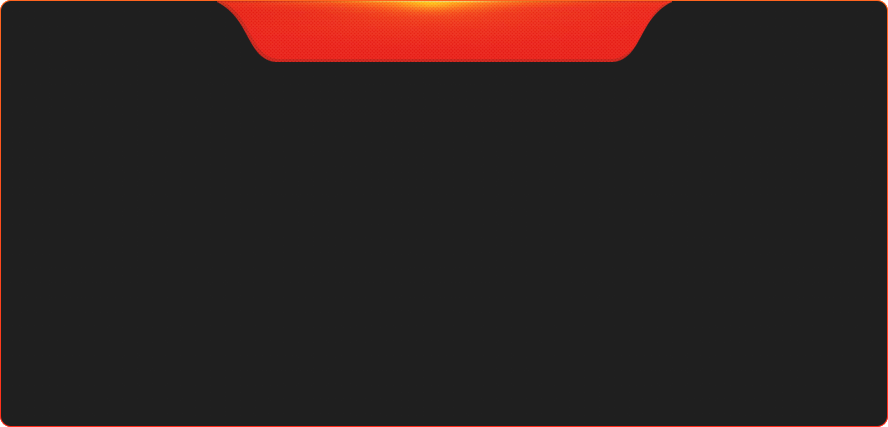
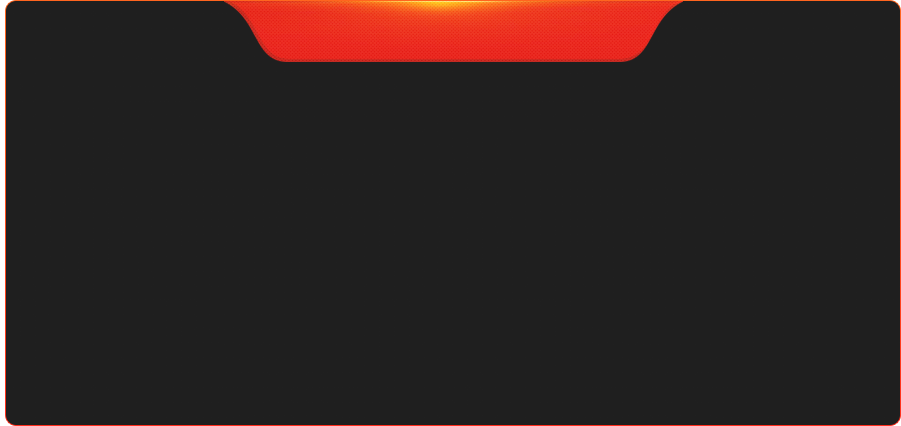
feat: change background promotion detail

Changed region(s): [[0.0, 0.0, 0.0304, 1.0], [0.2736, 0.061, 0.3041, 0.1526], [0.2432, 0.0, 0.2736, 0.061]]

diff --git a/views/banner-promotion/announcement-detail.tsx b/views/banner-promotion/announcement-detail.tsx
@@ -78,8 +78,8 @@ const AnnouncementDetail: React.FC<AnnouncementDetailProps> = ({ data }) => {
                 backgroundRepeat: 'no-repeat',
                 backgroundPosition: 'center',
                 backgroundSize: 'contain',
-                width: 888,
-                height: 427,
+                width: 901,
+                height: 426,
                 color: '#fff',
                 borderRadius: 12,
                 position: 'relative',
@@ -137,43 +137,106 @@ const AnnouncementDetail: React.FC<AnnouncementDetailProps> = ({ data }) => {
                         background: '#2b2b2b',
                         padding: '11px 10px 16px 10px',
                         marginBottom: 32,
-                        display: 'flex',
-                        justifyContent: 'space-between',
-                        fontSize: 18,
-                        color: '#fff',
-                        fontFamily: "'UTM-Swiss-721-Black-Condensed'"
+                        fontFamily: "'UTM-Swiss-721-Black-Condensed'",
+                        textAlign: 'center',
+                        borderRadius: 8,
+                        overflow: 'hidden',
                     }}
                 >
-                    <div
-                        style={{ flex: 1, display: 'flex', maxWidth: 225, flexDirection: 'column', alignItems: 'center', padding: '0 8px' }}
-                    >
-                        <div style={{ fontWeight: 700, marginBottom: 4 }}>
-                            {t('FSB_viewdetails_duration')}
-                        </div>
-                        <div style={{ textAlign: 'center', fontFamily: "'UTM-BryantLG'", whiteSpace: 'pre-line' }}>
-                            {t('from_to',{ startdate, enddate })}
-                        </div>
-                    </div>
-                    <div style={{ flex: 1, display: 'flex', flexDirection: 'column', alignItems: 'center', padding: '0 8px' }}>
-                        <div style={{ fontWeight: 700, marginBottom: 4 }}>
-                            {t('FSB_viewdetails_eligible_games')}
-                        </div>
-                        <div style={{ textAlign: 'center', fontFamily: "'UTM-BryantLG'" , whiteSpace: 'pre-line' }}>
-                            {eligibleGamesDisplay}
-                        </div>
-                    </div>
-                    <div style={{ flex: 1, display: 'flex', flexDirection: 'column', alignItems: 'center', padding: '0 8px' }}>
-                        <div style={{ fontWeight: 700, marginBottom: 4 }}>
-                            {t('FSB_viewdetails_freespin_reward')}
-                        </div>
-                        <div style={{ textAlign: 'center', fontFamily: "'UTM-BryantLG'" }}>{freeSpinReward}</div>
-                    </div>
-                    <div style={{ flex: 1, display: 'flex', flexDirection: 'column', alignItems: 'center', padding: '0 8px' }}>
-                        <div style={{  fontWeight: 700, marginBottom: 4 }}>
-                            {t('FSB_viewdetails_total_bet_per_spin')}
-                        </div>
-                        <div style={{ textAlign: 'center', fontFamily: "'UTM-BryantLG'" }}>{totalBetPerSpin}</div>
-                    </div>
+                    <table style={{ width: '100%', borderCollapse: 'separate', borderSpacing: 0, tableLayout: 'fixed' }}>
+                        <colgroup>
+                            <col style={{ width: '25%' }} />
+                            <col style={{ width: '25%' }} />
+                            <col style={{ width: '25%' }} />
+                            <col style={{ width: '25%' }} />
+                        </colgroup>
+                        <thead>
+                            <tr>
+                                <th style={{
+                        color: '#fff',
+                        padding: '8px',
+                                    textAlign: 'center',
+                                    fontWeight: 700,
+                                    fontSize: 18,
+                                    lineHeight: 1.2,
+                                    wordBreak: 'break-word',
+                                    whiteSpace: 'normal',
+                                }}>{t('FSB_viewdetails_duration')}</th>
+                                <th style={{
+                        color: '#fff',
+                                    padding: '8px',
+                                    textAlign: 'center',
+                                    fontWeight: 700,
+                                    fontSize: 18,
+                                    lineHeight: 1.2,
+                                    wordBreak: 'break-word',
+                                    whiteSpace: 'normal',
+                                }}>{t('FSB_viewdetails_eligible_games')}</th>
+                                <th style={{
+                        color: '#fff',
+                                    padding: '8px',
+                                    textAlign: 'center',
+                                    fontWeight: 700,
+                                    fontSize: 18,
+                                    lineHeight: 1.2,
+                                    wordBreak: 'break-word',
+                                    whiteSpace: 'normal',
+                                }}>{t('FSB_viewdetails_freespin_reward')}</th>
+                                <th style={{
+                        color: '#fff',
+                                    padding: '8px',
+                                    textAlign: 'center',
+                                    fontWeight: 700,
+                                    fontSize: 18,
+                                    lineHeight: 1.2,
+                                    wordBreak: 'break-word',
+                                    whiteSpace: 'normal',
+                                }}>{t('FSB_viewdetails_total_bet_per_spin')}</th>
+                            </tr>
+                        </thead>
+                        <tbody>
+                            <tr>
+                                <td style={{
+                        color: '#fff',
+                                    padding: '8px',
+                                    textAlign: 'center',
+                                    fontSize: 18,
+                                    fontFamily: "'UTM-BryantLG'",
+                                    whiteSpace: 'pre-line',
+                                    verticalAlign: 'top',
+                                    wordBreak: 'break-word',
+                                }}>{t('from_to',{ startdate, enddate })}</td>
+                                <td style={{
+                        color: '#fff',
+                        padding: '8px',
+                                    textAlign: 'center',
+                                    fontSize: 18,
+                                    fontFamily: "'UTM-BryantLG'",
+                                    whiteSpace: 'pre-line',
+                                    verticalAlign: 'top',
+                                    wordBreak: 'break-word',
+                                }}>{eligibleGamesDisplay}</td>
+                                <td style={{
+                        color: '#fff',
+                        padding: '8px',
+                                    textAlign: 'center',
+                                    fontSize: 18,
+                                    fontFamily: "'UTM-BryantLG'",
+                                    verticalAlign: 'top',
+                                    wordBreak: 'break-word',
+                                }}>{freeSpinReward}</td>
+                                <td style={{
+                        color: '#fff',
+                        padding: '8px',
+                                    textAlign: 'center',
+                                    fontSize: 18,
+                                    fontFamily: "'UTM-BryantLG'",
+                                    verticalAlign: 'top',
+                                    wordBreak: 'break-word',
+                                }}>{totalBetPerSpin}</td>
+                            </tr>
+                        </tbody>
+                    </table>
                 </div>
 
                 {/* Terms & Conditions */}

diff --git a/views/banner-promotion/banner-promotion.tsx b/views/banner-promotion/banner-promotion.tsx
@@ -80,8 +80,8 @@ const BannerPromotion: React.FC<BannerPromotionProps> = ({ data }) => {
     return (
         <div
             style={{
-                width: 902,
-                height: 425,
+                width: 901,
+                height: 426,
                 position: 'relative',
                 display: 'flex',
                 flexDirection: 'row',
